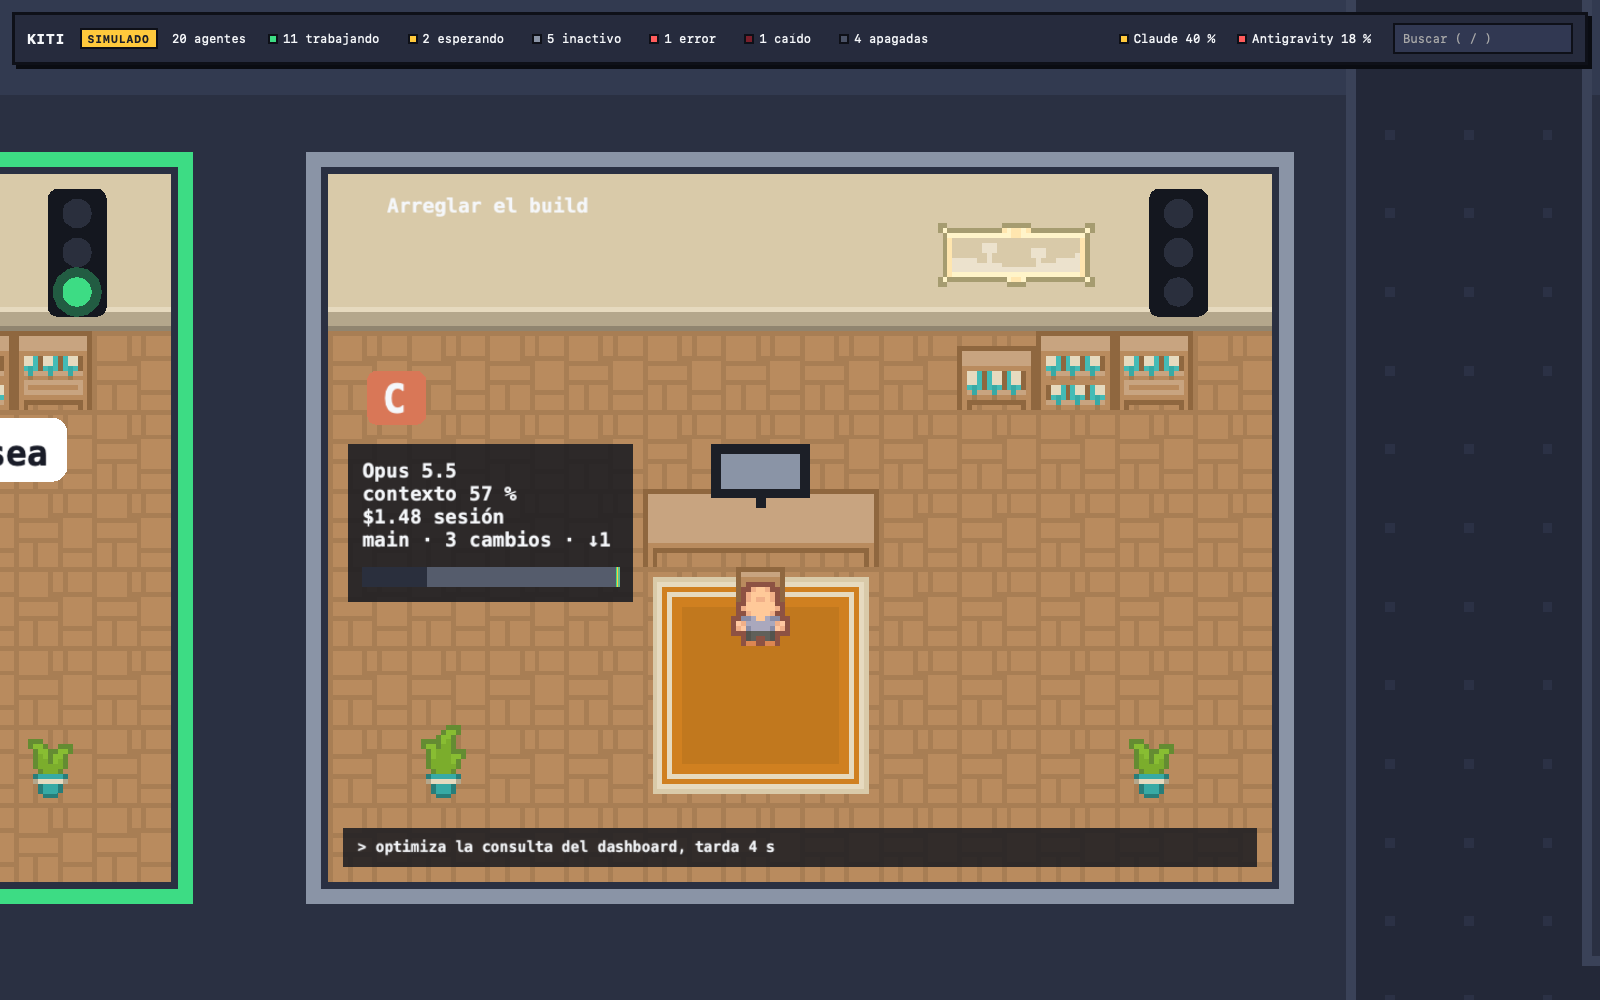
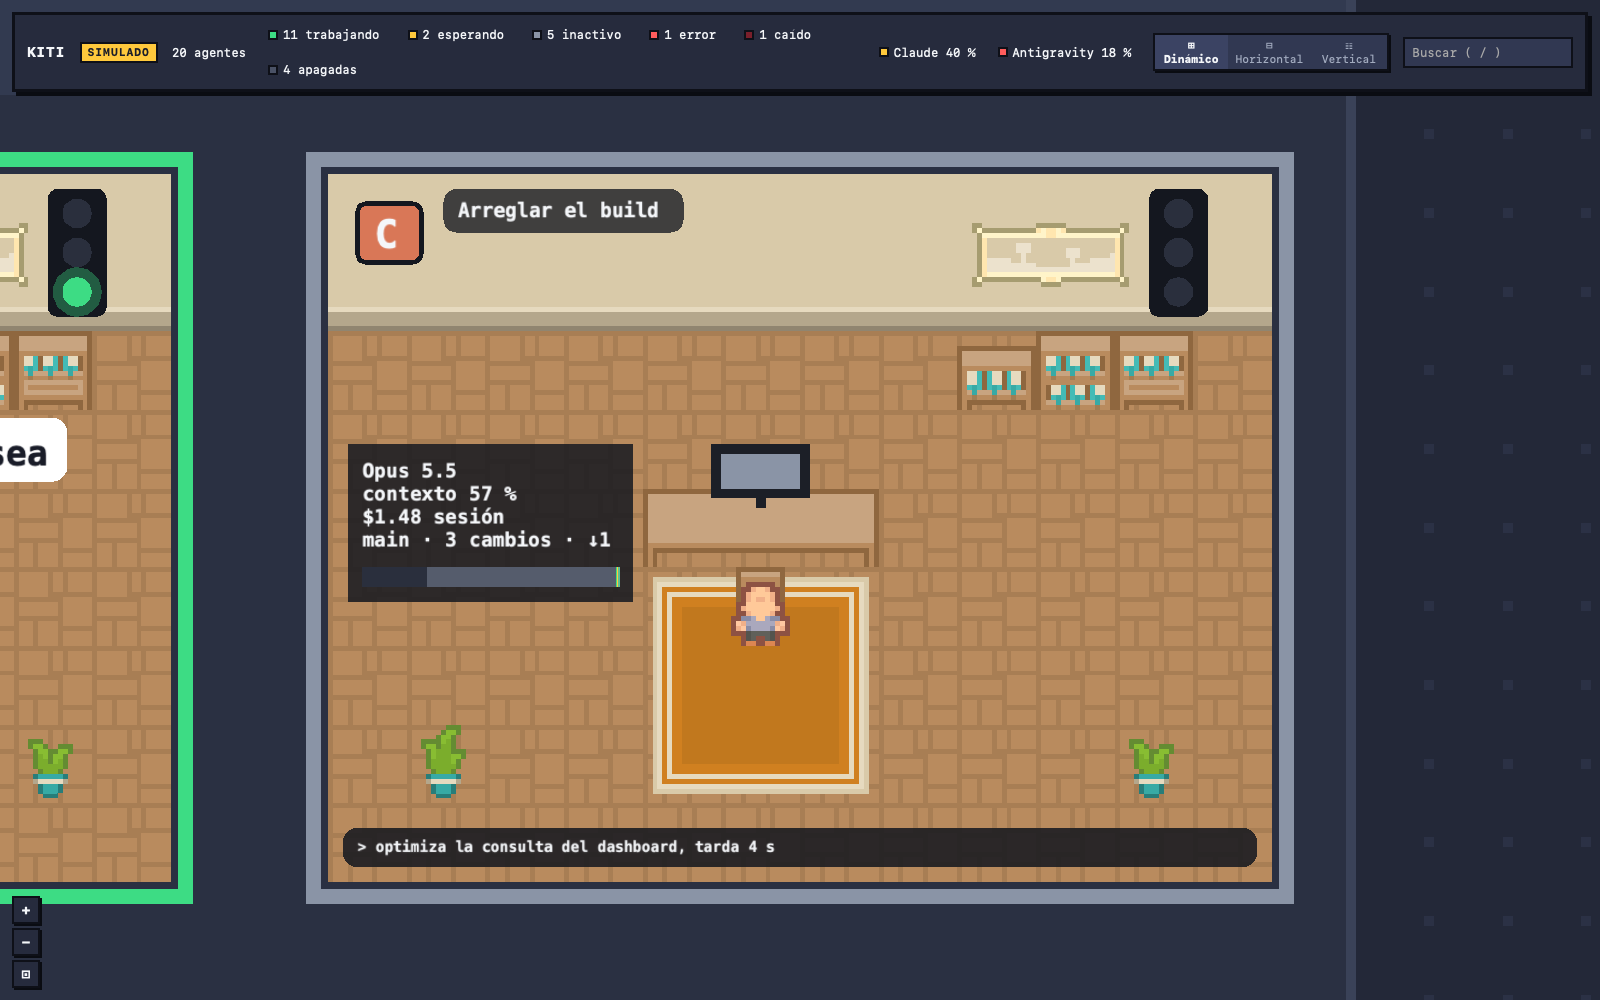
docs: document map layouts, map controls and animations; refresh screenshots
README (English and Spanish) and the website cover the dynamic,
horizontal and vertical layouts, the + / - / fit buttons and the working
animations from PR #17. Screenshots are recaptured at 1600x1000 so the
top bar fits on one line. AGENTS.md drops stale lines (next step,
providers, release signing) and lists the layout URL parameter.

diff --git a/site/index.html b/site/index.html
@@ -341,13 +341,13 @@
       <p class="note">Universal build for Apple Silicon and Intel, ad-hoc signed (see <a href="#start">install notes</a>). The demo runs in your browser with 20 simulated agents.</p>
 
       <div class="frame stage" id="stage">
-        <img src="img/map.png" alt="Kiti map with 20 simulated agents grouped by project, each office with its title and a coloured traffic light" width="1440" height="900">
+        <img src="img/map.png" alt="Kiti map with 20 simulated agents grouped by project, each office with its title and a coloured traffic light" width="1600" height="1000">
         <button class="play" id="play" type="button" aria-label="Run the simulation here">
           <span class="btn">▶ Run it here</span>
         </button>
       </div>
       <div class="stage-links">
-        <span>Drag to pan · wheel or pinch to zoom · double-click an office to focus · <code>/</code> to search · <code>0</code> to see all</span>
+        <span>Drag to pan · wheel or pinch to zoom · double-click an office to focus · <code>/</code> to search · <code>0</code> or ⊡ to see all</span>
         <a href="demo/?sim=20&amp;seed=42&amp;conversations=1">Open full screen →</a>
       </div>
     </div>
@@ -392,7 +392,7 @@
         <div class="grid">
           <div class="card"><div class="icon" style="background: var(--working)">⌕</div><h3>Automatic detection</h3><p>Finds agent processes by executable and argv, not by name. Launchers and desktop apps are ignored.</p></div>
           <div class="card"><div class="icon" style="background: var(--waiting)">▦</div><h3>Zones per project</h3><p>Offices are grouped by git root, so each repository is its own neighbourhood on the map.</p></div>
-          <div class="card"><div class="icon" style="background: var(--gemini)">⊕</div><h3>Camera and detail</h3><p>Pan, zoom and focus. Far away each office shows its title on a sign; close up you see the current tool and the last request.</p></div>
+          <div class="card"><div class="icon" style="background: var(--gemini)">⊕</div><h3>Camera and layout</h3><p>Pan, zoom and focus, with + / − / fit buttons. Pick a dynamic, horizontal or vertical map. Far away each office shows its title; close up, the current tool and the last request.</p></div>
           <div class="card"><div class="icon" style="background: var(--idle)">/</div><h3>Filter and search</h3><p>Click a counter to filter by status, or press / to search. The rest of the map is dimmed, not hidden, and the camera frames the matches.</p></div>
           <div class="card"><div class="icon" style="background: var(--panel-3); color: var(--text)">&gt;_</div><h3>Embedded terminal</h3><p>Launch agents from Kiti. They live in tmux and survive when you close the app.</p></div>
           <div class="card"><div class="icon" style="background: var(--codex)">↗</div><h3>Jump to its terminal</h3><p>For an agent started elsewhere, one click shows its exact tab in Ghostty or Terminal.app.</p></div>
@@ -413,19 +413,19 @@
         <p class="sub">Filter the map down to the agents that wait for you, then double-click an office to see what it is doing.</p>
         <div class="shots">
           <figure>
-            <div class="frame"><img src="img/filter.png" alt="The waiting filter is on: the two yellow offices stand out and the others are dimmed" loading="lazy" width="1440" height="900"></div>
-            <figcaption>The «esperando» (waiting) counter is on: everything else is dimmed.</figcaption>
+            <div class="frame"><img src="img/filter.png" alt="Searching for billing: the camera frames that project and its four offices" loading="lazy" width="1600" height="1000"></div>
+            <figcaption>Press / and type: the camera frames what matches; the rest is dimmed.</figcaption>
           </figure>
           <figure>
             <div class="frame"><img src="img/board.png" alt="Close-up of a Claude office with its board: model, context, session cost, git status and the last hour; the top bar shows the Claude and Antigravity quota" loading="lazy" width="1600" height="1000"></div>
             <figcaption>The office board at the closest zoom, and the quota in the top bar.</figcaption>
           </figure>
           <figure>
-            <div class="frame"><img src="img/external.png" alt="Side panel of an agent opened outside Kiti, with the button to go to its terminal" loading="lazy" width="1440" height="900"></div>
+            <div class="frame"><img src="img/external.png" alt="Side panel of an agent opened outside Kiti, with the button to go to its terminal" loading="lazy" width="1600" height="1000"></div>
             <figcaption>An agent opened in Ghostty. «Ir a su terminal» brings its tab to the front.</figcaption>
           </figure>
           <figure>
-            <div class="frame"><img src="img/dormant.png" alt="A closed conversation as a dark office with an empty chair, and a panel to resume it" loading="lazy" width="1440" height="900"></div>
+            <div class="frame"><img src="img/dormant.png" alt="A closed conversation as a dark office with an empty chair, and a panel to resume it" loading="lazy" width="1600" height="1000"></div>
             <figcaption>A closed conversation, ready to resume with its full context.</figcaption>
           </figure>
         </div>

diff --git a/AGENTS.md b/AGENTS.md
@@ -4,7 +4,7 @@ Guía para cualquier agente (Claude Code, Codex, Gemini u otros) que trabaje en 
 
 ## Qué es Kiti
 
-App de escritorio con estética de videojuego 2D cenital (pixel art, estilo Gather.town o Stardew Valley). Muestra una **oficina virtual donde cada sala es un agente de código en ejecución** en la máquina: Claude Code, Codex CLI o Gemini CLI. El objetivo es tener todos los agentes centralizados en una sola vista.
+App de escritorio con estética de videojuego 2D cenital (pixel art, estilo Gather.town o Stardew Valley). Muestra una **oficina virtual donde cada sala es un agente de código en ejecución** en la máquina: Claude Code, Codex CLI, Antigravity CLI o Gemini CLI. El objetivo es tener todos los agentes centralizados en una sola vista.
 
 Funciones del MVP:
 - Ver solo los agentes que están en ejecución.
@@ -12,7 +12,7 @@ Funciones del MVP:
 - Semáforo de estado por oficina.
 - Cerrar una oficina, lo que termina el proceso del agente pidiendo confirmación antes.
 
-Más adelante se añadirán paneles de detalle, logs, terminal embebida y lanzamiento de agentes.
+Ya hechos después del MVP (ver [Roadmap](#roadmap)): panel de detalle, terminal embebida y lanzamiento de agentes, sesiones persistentes, conversaciones para retomar, avisos, filtro, cuota, tablero de oficina y distribuciones del mapa.
 
 ## Estado actual
 
@@ -23,7 +23,7 @@ Más adelante se añadirán paneles de detalle, logs, terminal embebida y lanzam
   - Las capturas usan `steps=357` en lugar de `steps=120`: con `seed=42` es el primer paso en el que conviven los cinco colores.
   - El p95 del delta de rAF en WebKit mide 17 ms (60 fps reales) porque WebKit redondea los timestamps a ms enteros; el test tolera 1 ms.
   - Falta verificar a mano el diálogo nativo de cierre (Playwright no lo controla). Hasta el Hito 11 el botón no lo abría (ver ADR 0009).
-- **Siguiente paso:** Hito 3, procesos reales (ver [Roadmap](#roadmap)).
+- **Siguiente paso:** soporte para Windows (ver [Roadmap](#roadmap)). Releases publicados: v0.1.0 y v0.2.0 (firma ad-hoc, [docs/release.md](docs/release.md)).
 
 ## Índice de ADRs
 
@@ -71,7 +71,7 @@ kiti/
   fixtures/sim/       # perfiles y conformidad compartidos por los dos simuladores
   crates/protocol/    # kiti-protocol: DTOs + PROTOCOL_VERSION + ts-rs (solo serde y ts-rs)
   crates/core/        # kiti-core, Rust puro y SIN Tauri: domain / application / ports / adapters / sim
-  crates/forwarder/   # kiti-hook: reenvía los hooks de Codex y Gemini; no depende de nada del repo
+  crates/forwarder/   # kiti-hook: reenvía los hooks de Codex, Antigravity y Gemini; no depende de nada del repo
   src-tauri/          # capa fina: commands, Channel hacia la UI, capabilities y tracing
   ui/                 # Vite + TS + PixiJS (+ React para paneles); funciona sin Tauri en modo sim
   docs/decisiones/    # ADRs numerados
@@ -93,6 +93,7 @@ Reglas de arquitectura:
 [claude]  --hook http------------------> [core: HookServer (axum, 127.0.0.1, /v1/hooks)]
 [codex]   --hook command--> [kiti-hook] --> [core: HookServer]
 [gemini]  --hook command--> [kiti-hook] --> [core: HookServer]
+[agy]     --hook command--> [kiti-hook] --> [core: HookServer]
 [procesos] --sysinfo cada 2 s----------> [core: ProcessScanner]
 [~/.claude/sessions/*.json] --notify---> [core: ClaudeSessionsWatcher]
 [*.jsonl] --notify (FSEvents)----------> [core: TranscriptTailer]
@@ -110,7 +111,7 @@ Reglas de arquitectura:
 // Generado por ts-rs desde crates/protocol (ADR 0004)
 type AgentState = {
   id: string;                 // "{provider}:{pid}:{start_ms}", opaco
-  provider: "claude" | "codex" | "gemini";
+  provider: "claude" | "codex" | "gemini" | "antigravity";
   pid: number;
   cwd: string;
   startedAt: number;
@@ -189,6 +190,7 @@ Alineado con el [ADR 0006](docs/decisiones/0006-arquitectura-consolidada/README.
 - [x] **17. Antigravity CLI:** cuarto proveedor (`agy`), con semáforo, permiso, título, último pedido, lanzar y retomar conversaciones.
 - [x] **18. Cuota:** cuánto queda del plan de Claude (5 h y semana) y de Antigravity, en la barra superior, con aviso al bajar del 20 % semanal.
 - [x] **19. Tablero de la oficina:** en el zoom cercano, modelo, contexto y coste de la sesión, git del proyecto y la última hora.
+- [x] **UX (PR #17):** distribuciones del mapa (dinámica, horizontal y vertical), botones `+`, `−` y encuadrar, animaciones de trabajo y decoración por oficina.
 - [ ] **Después:** soporte para Windows.
 
 ## Pendientes de verificar
@@ -243,6 +245,6 @@ Alineado con el [ADR 0006](docs/decisiones/0006-arquitectura-consolidada/README.
   mise run check         # fmt, clippy, cargo-deny, tests Rust, Biome, tsc, Vitest con cobertura y E2E
   ```
 
-- **Parámetros de URL del modo sim:** `sim`, `seed`, `steps`, `freeze=1`, `anim=0`, `zoom=far|mid|near`, `focus=<id|índice>`, `terminals=1` (terminal falsa en el simulador), `conversations=1` (cuatro conversaciones cerradas falsas), `quota=1` (cuota falsa de Claude y Antigravity). En la consola, `window.__kiti` expone `step`, `focus`, `setZoom`, `metrics`, `counts`, `frames`, `bench`, `zones`, `dormant`, `dimmed` y `board`. El panel de debug se abre con `Cmd+Shift+D`.
-- **Releases:** un tag `vX.Y.Z` firma, notariza y publica Kiti.app en borrador (`.github/workflows/release.yml`). Secrets y pasos en [docs/release.md](docs/release.md).
+- **Parámetros de URL del modo sim:** `sim`, `seed`, `steps`, `freeze=1`, `anim=0`, `zoom=far|mid|near`, `focus=<id|índice>`, `terminals=1` (terminal falsa en el simulador), `conversations=1` (cuatro conversaciones cerradas falsas), `quota=1` (cuota falsa de Claude y Antigravity), `layout=dynamic|horizontal|vertical` (distribución del mapa). En la consola, `window.__kiti` expone `step`, `focus`, `setZoom`, `metrics`, `counts`, `frames`, `bench`, `zones`, `dormant`, `dimmed` y `board`. El panel de debug se abre con `Cmd+Shift+D`.
+- **Releases:** un tag `vX.Y.Z` compila Kiti.app universal y crea el release en borrador (`.github/workflows/release.yml`): firmada y notarizada si están los secrets de Apple, con firma ad-hoc si no. Secrets y pasos en [docs/release.md](docs/release.md).
 - Los recursos gráficos son de Kenney.nl (CC0), en `ui/public/assets/kenney/` con sus licencias (ADR 0013).

diff --git a/README.es.md b/README.es.md
@@ -26,7 +26,8 @@ Cuando tienes varios agentes de código abiertos, les pierdes la pista. Uno espe
 - **Detección automática.** Kiti encuentra los procesos de Claude Code, Codex CLI, Antigravity CLI (`agy`) y Gemini CLI. Los clasifica por ejecutable y `argv`, nunca por el nombre del proceso, e ignora los lanzadores y las apps de escritorio.
 - **Semáforo por agente.** Verde es trabajando, amarillo es esperándote, gris es inactivo y rojo es error o caída. El estado sale de los hooks de los CLIs, no de adivinar. Un fallo de herramienta no es rojo.
 - **Zonas por proyecto.** Las oficinas se agrupan por raíz git (o carpeta): cada repositorio es un barrio.
-- **Cámara.** Pan, zoom, doble clic para enfocar una oficina y `0` para verlo todo. De lejos, cada oficina muestra su título en un cartel grande; de cerca ves el título, la herramienta actual y el último pedido.
+- **Cámara y distribución.** Pan, zoom, doble clic para enfocar una oficina y `0` para verlo todo, o los botones `+`, `−` y encuadrar de la esquina. De lejos, cada oficina muestra su título en un cartel grande; de cerca ves el título, la herramienta actual y el último pedido. La barra superior cambia el mapa entre tres distribuciones: dinámica (filas centradas), horizontal y vertical.
+- **Oficinas con vida.** Los agentes que trabajan están animados y cada oficina tiene su propia decoración, así que el mapa distingue de un vistazo quién trabaja y quién no.
 - **Filtro y buscador.** Los contadores de la barra superior filtran por estado, también las conversaciones apagadas. Pulsa `/` para buscar por título, proyecto, carpeta o proveedor, y `Esc` para limpiar. Las oficinas que no coinciden se atenúan, no se esconden: el mapa conserva su orden y la cámara encuadra las que coinciden.
 - **Terminal embebida.** Lanza un agente nuevo desde Kiti. Corre en `tmux` (`-L kiti`), así que sobrevive cuando cierras Kiti.
 - **Ir a su terminal.** Para un agente abierto fuera de Kiti, «Ir a su terminal» muestra su pestaña exacta en Ghostty o Terminal.app. Otras apps, como VS Code, pasan al frente.
@@ -40,7 +41,7 @@ Cuando tienes varios agentes de código abiertos, les pierdes la pista. Uno espe
 <table>
 <tr>
 <td><img src="site/img/board.png" alt="Oficina de Claude de cerca con su tablero: modelo, contexto, coste de la sesión, estado de git y la última hora; la barra superior muestra la cuota de Claude y Antigravity"></td>
-<td><img src="site/img/filter.png" alt="Filtro «esperando» activo: las dos oficinas amarillas destacan y el resto se atenúa"></td>
+<td><img src="site/img/filter.png" alt="Búsqueda de billing: la cámara encuadra ese proyecto y sus cuatro oficinas"></td>
 </tr>
 <tr>
 <td><img src="site/img/external.png" alt="Panel de un agente abierto fuera de Kiti, con el botón para ir a su terminal"></td>
@@ -101,7 +102,7 @@ mise install && mise exec -- pnpm install
 mise run ui:dev                        # http://127.0.0.1:5173/?sim=20&seed=42
 ```
 
-O abre la [demo](https://xavieracostapolo.github.io/kiti/demo/). Parámetros de URL: `sim` (número de agentes), `seed`, `conversations=1` (conversaciones cerradas), `terminals=1` (terminal falsa) y `quota=1` (cuota falsa).
+O abre la [demo](https://xavieracostapolo.github.io/kiti/demo/). Parámetros de URL: `sim` (número de agentes), `seed`, `conversations=1` (conversaciones cerradas), `terminals=1` (terminal falsa), `quota=1` (cuota falsa) y `layout=dynamic|horizontal|vertical`.
 
 ### Ejecuta la app
 

diff --git a/README.md b/README.md
@@ -26,7 +26,8 @@ When you run several coding agents at once, you lose track of them. One waits fo
 - **Automatic detection.** Kiti finds running Claude Code, Codex CLI, Antigravity CLI (`agy`) and Gemini CLI processes. It classifies them by executable and `argv`, never by process name, and ignores launchers and the desktop apps.
 - **Traffic light per agent.** Green is working, yellow is waiting for you, grey is idle, red is an error or a crash. The status comes from the CLI hooks, not from guessing. A failed tool call is not red.
 - **Zones per project.** Offices are grouped by git root (or folder), so each repository is a neighbourhood.
-- **Camera.** Pan, zoom, double-click to focus an office, `0` to see everything. Far away, each office shows its title on a large sign; close up you see the title, the current tool and the last request.
+- **Camera and layout.** Pan, zoom, double-click to focus an office, `0` to see everything, or use the `+`, `−` and fit buttons in the corner. Far away, each office shows its title on a large sign; close up you see the title, the current tool and the last request. The top bar switches the map between three layouts: dynamic (centered rows), horizontal and vertical.
+- **Alive offices.** Working agents are animated, and each office gets its own decor, so the map tells busy from idle at a glance.
 - **Filter and search.** The counters in the top bar filter by status, closed conversations included. Press `/` to search by title, project, folder or provider, and `Esc` to clear. Offices that do not match are dimmed, not hidden, so the map keeps its layout and the camera frames the matches.
 - **Embedded terminal.** Launch a new agent from Kiti. It runs in `tmux` (`-L kiti`), so it survives when you close Kiti.
 - **Jump to its terminal.** For an agent started outside Kiti, «Ir a su terminal» shows its exact tab in Ghostty or Terminal.app. Other apps, such as VS Code, are brought to the front.
@@ -40,7 +41,7 @@ When you run several coding agents at once, you lose track of them. One waits fo
 <table>
 <tr>
 <td><img src="site/img/board.png" alt="Close-up of a Claude office with its board: model, context, session cost, git status and the last hour; the top bar shows the Claude and Antigravity quota"></td>
-<td><img src="site/img/filter.png" alt="The waiting filter is on: the two yellow offices stand out and the others are dimmed"></td>
+<td><img src="site/img/filter.png" alt="Searching for billing: the camera frames that project and its four offices"></td>
 </tr>
 <tr>
 <td><img src="site/img/external.png" alt="Side panel of an agent opened outside Kiti, with the button to go to its terminal"></td>
@@ -101,7 +102,7 @@ mise install && mise exec -- pnpm install
 mise run ui:dev                        # http://127.0.0.1:5173/?sim=20&seed=42
 ```
 
-Or open the [live demo](https://xavieracostapolo.github.io/kiti/demo/). URL parameters: `sim` (number of agents), `seed`, `conversations=1` (closed conversations), `terminals=1` (fake terminal), `quota=1` (fake quota).
+Or open the [live demo](https://xavieracostapolo.github.io/kiti/demo/). URL parameters: `sim` (number of agents), `seed`, `conversations=1` (closed conversations), `terminals=1` (fake terminal), `quota=1` (fake quota), `layout=dynamic|horizontal|vertical`.
 
 ### Run the app
 

diff --git a/docs/release.md b/docs/release.md
@@ -16,7 +16,7 @@ Un tag `vX.Y.Z` crea un **release en borrador** con el DMG (dos copias: `Kiti_X.
 
 Un PR que toque el workflow o la configuración del bundle compila con firma ad-hoc y sube el resultado como artefacto, para comprobar que el build funciona.
 
-La v0.1.0 salió con firma ad-hoc: la cuenta no está en el Apple Developer Program.
+La v0.1.0 y la v0.2.0 salieron con firma ad-hoc: la cuenta no está en el Apple Developer Program.
 
 ## Secrets del repositorio (para firmar con Developer ID)
 
